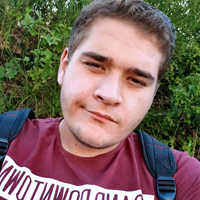
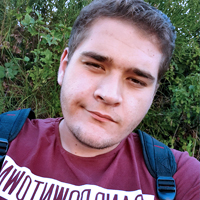
fix/feat: updated images

diff --git a/src/pages/AboutUs/teamImages.ts b/src/pages/AboutUs/teamImages.ts
@@ -8,4 +8,4 @@ export { default as Matej } from '../../assets/team/mat.jpg';
 export { default as Carola } from '../../assets/team/yikes.jpg';
 export { default as Sara } from '../../assets/team/sar.jpg';
 export { default as Lea } from '../../assets/team/lea.jpg';
-export { default as YesBot } from '../../assets/yesbot-yougotmail_bluetint.png';
+export { default as YesBot } from '../../assets/team/yes.jpg';
